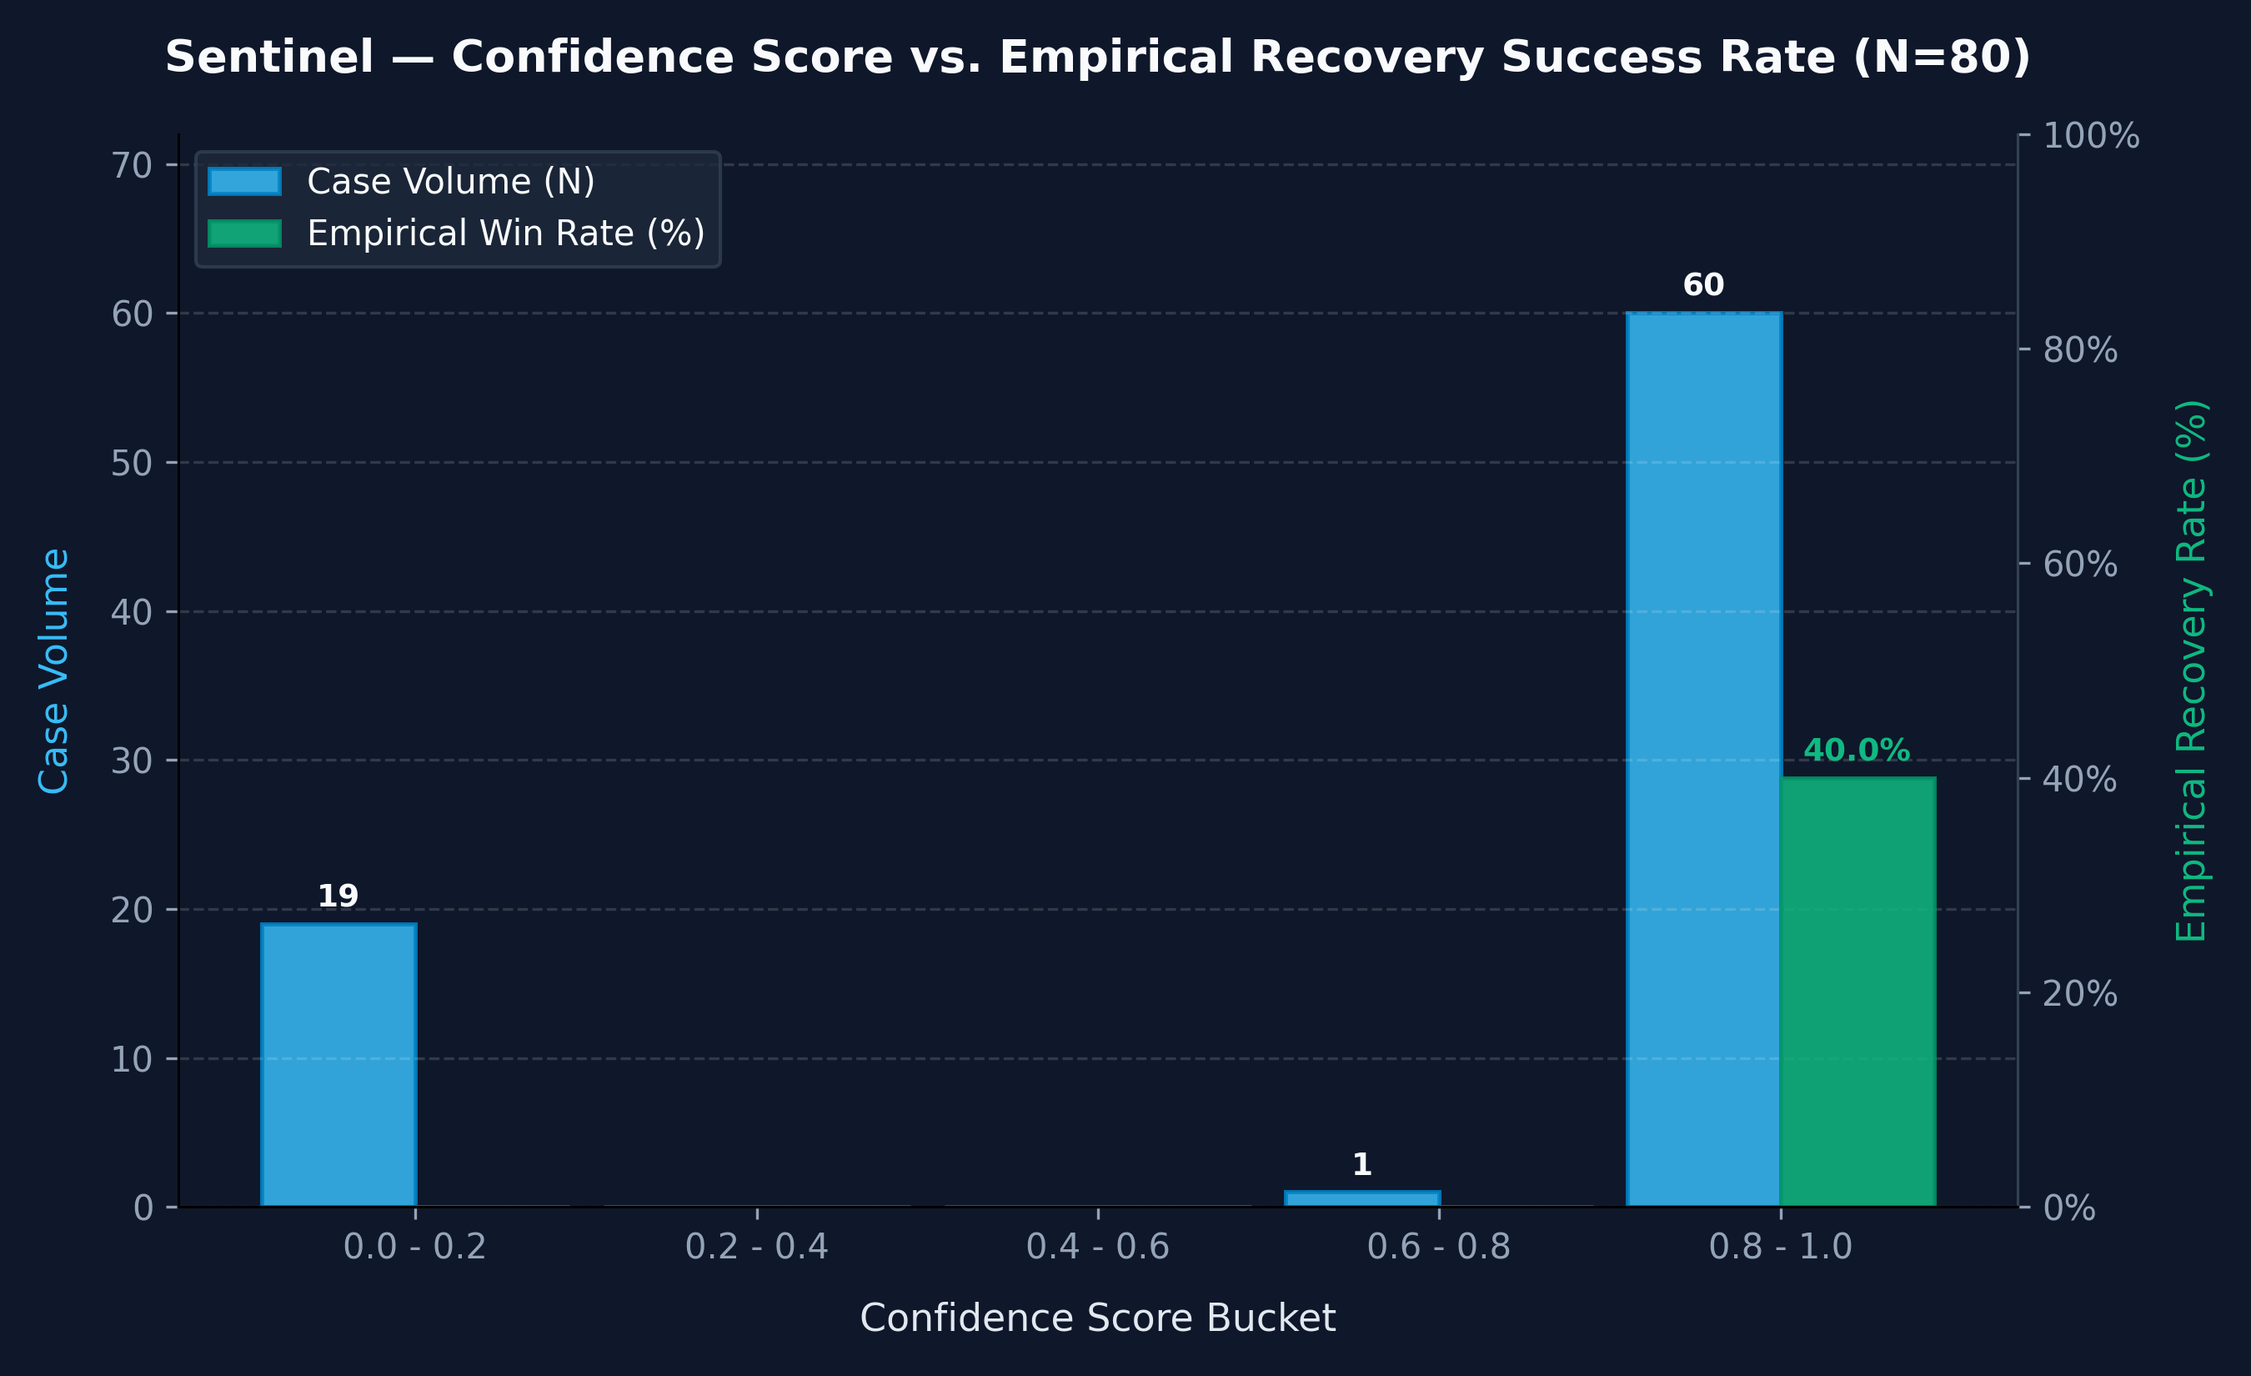
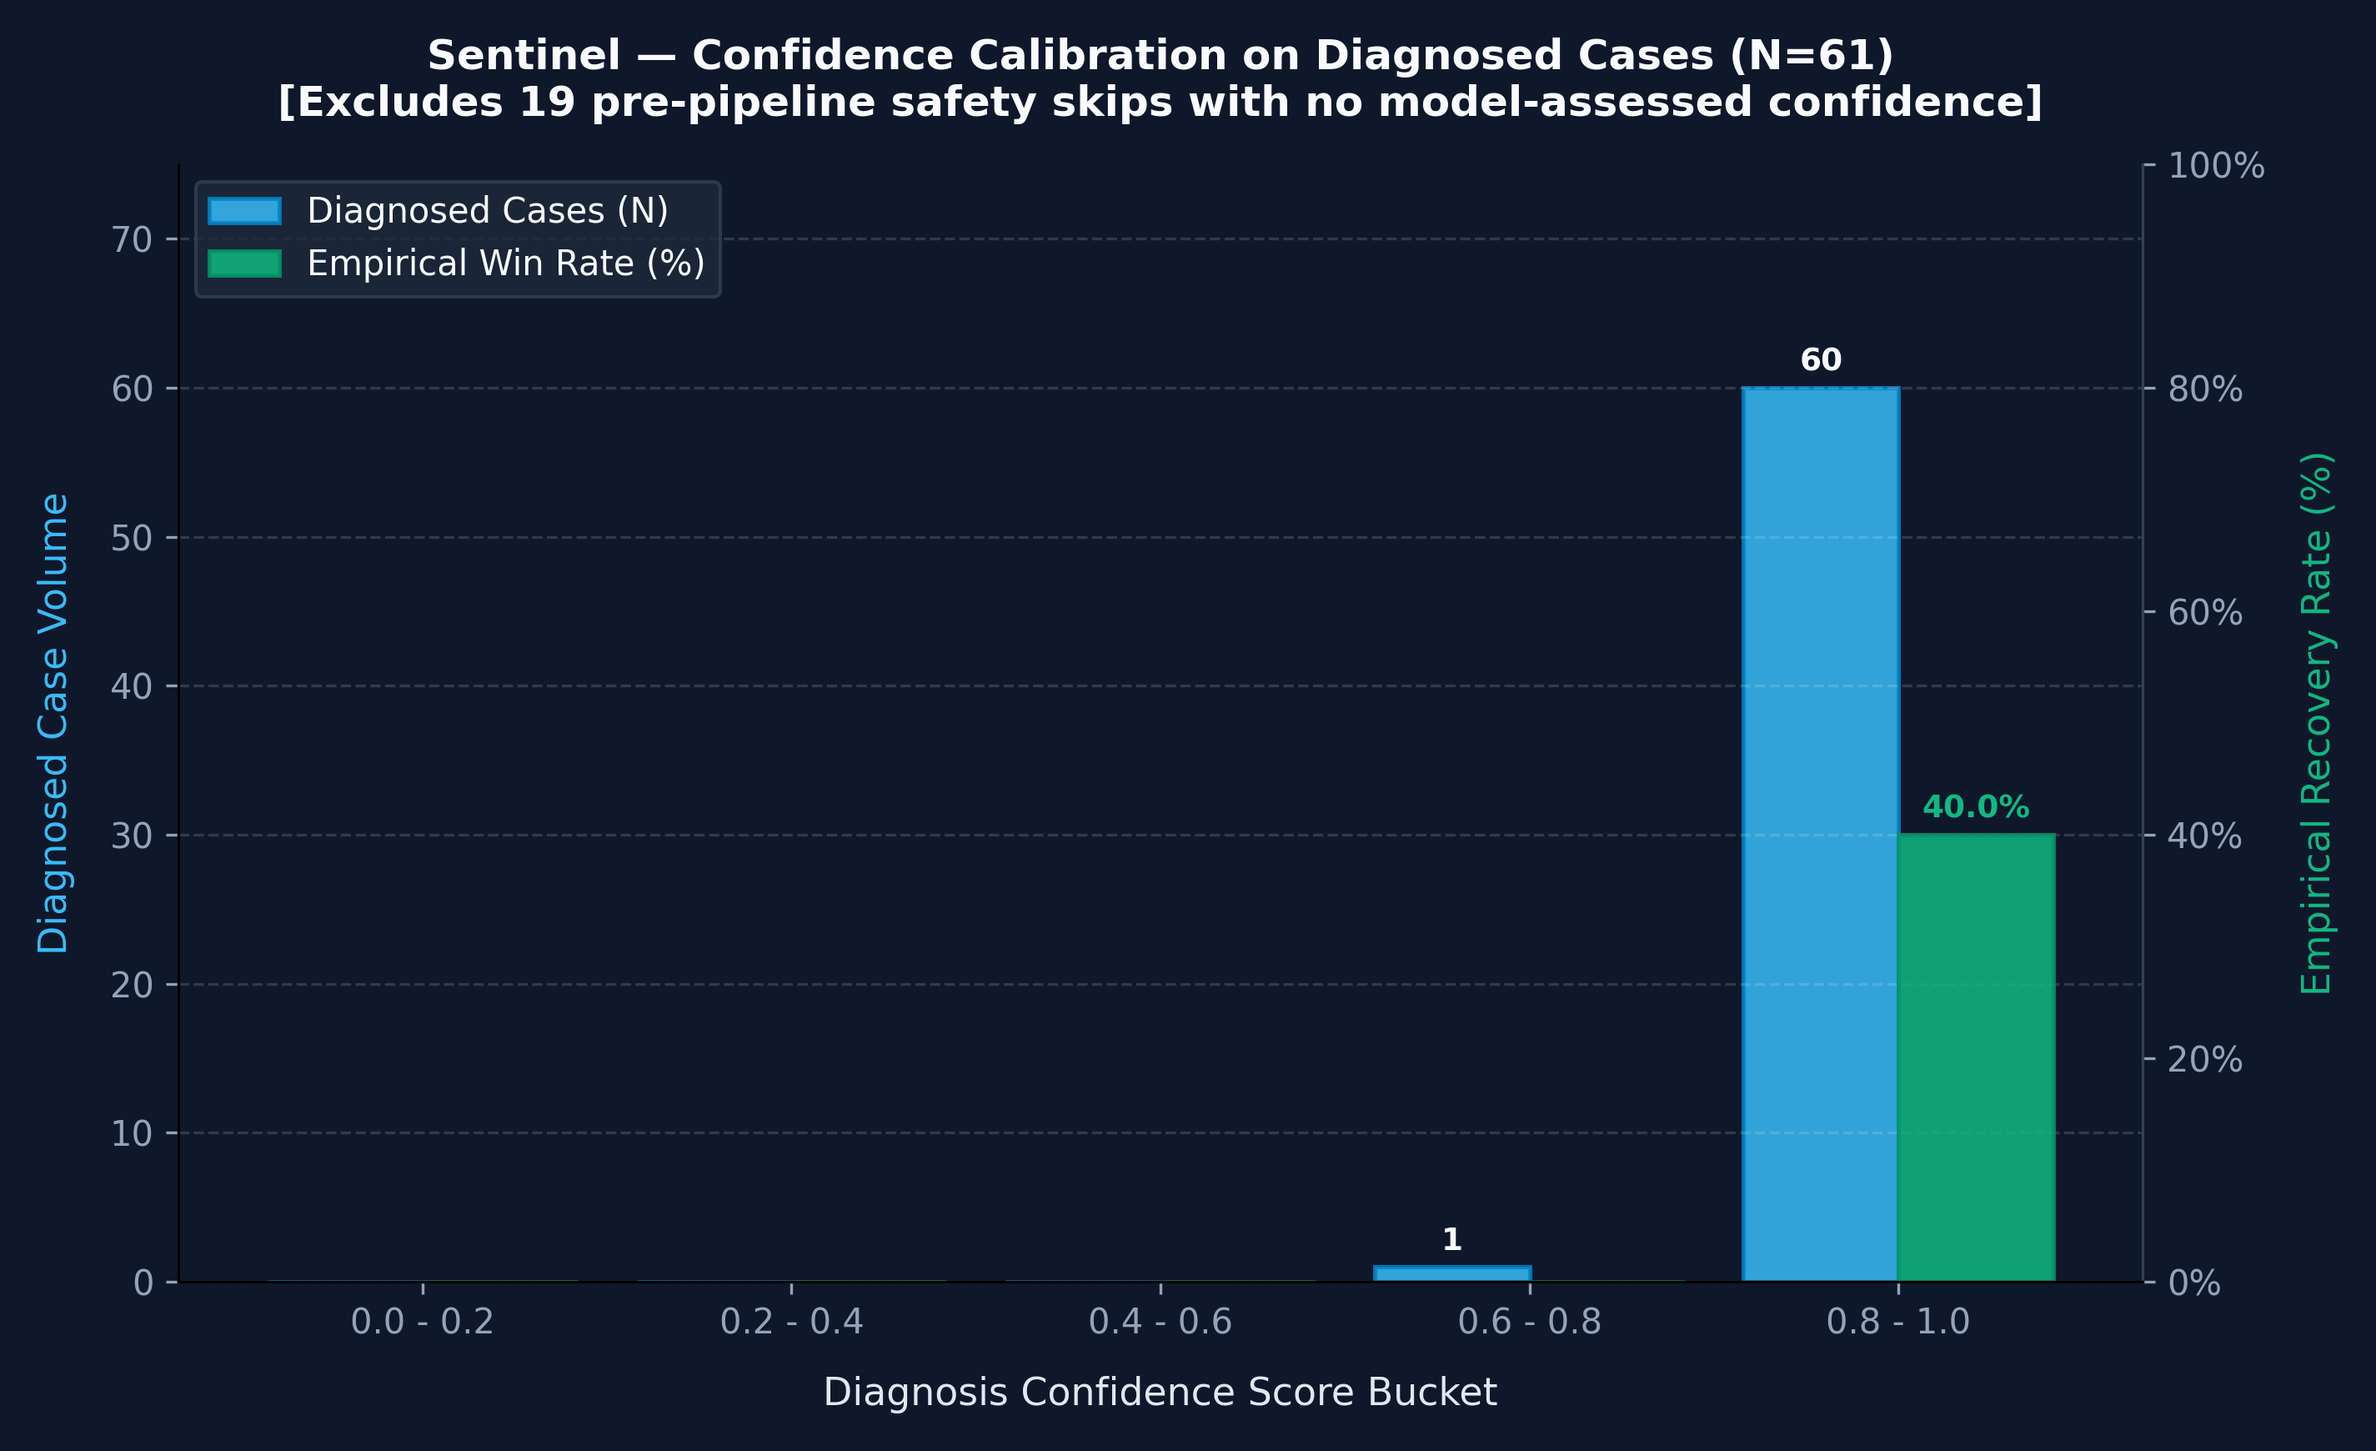
docs(calibration): isolate N=61 diagnosed cases and disclose sample size limitations

diff --git a/scripts/confidence_calibration.py b/scripts/confidence_calibration.py
@@ -2,10 +2,17 @@
 scripts/confidence_calibration.py — Confidence Calibration Check (Prompt 9)
 
 Evaluates the empirical calibration of Sentinel's LLM confidence scores across
-all 80 benchmark cases (Failed Payments + B2B Receivables).
+all 61 cases that actually reached the Diagnosis Agent (diagnose()).
 
-Buckets cases by confidence:
-- 0.0 – 0.2 (Pre-pipeline filtered / zero-confidence fallbacks)
+Exclusion Note: Exactly 19 cases in the 80-case benchmark are pre-pipeline safety
+skips (fraud flags, dispute holds, initial attempt-cap ceilings, active promises).
+These cases are filtered purely by statutory rules before the AI pipeline, meaning
+no LLM diagnosis is ever invoked (logged as diagnosis_confidence = "N/A"). They
+are excluded from calibration analysis to prevent artificial contamination of the
+0.0–0.2 bucket with non-model placeholder values.
+
+Buckets cases by model-assessed confidence:
+- 0.0 – 0.2
 - 0.2 – 0.4
 - 0.4 – 0.6 (Self-consistency split disagreements / cold starts)
 - 0.6 – 0.8 (Sub-threshold / majority-vote capped at 0.80)
@@ -55,14 +62,28 @@ def load_all_benchmark_cases(base_dir: Path) -> list[dict]:
     return rows
 
 
+def is_diagnosed_case(row: dict) -> bool:
+    """Check if the case actually ran through diagnose().
+
+    Pre-pipeline skipped cases (fraud, dispute, initial attempt caps, active promises)
+    were evaluated purely by deterministic rules before the AI pipeline, so they have
+    no model-assessed diagnosis confidence to calibrate against.
+    """
+    conf_str = row.get("diagnosis_confidence", "").strip()
+    cat_str = row.get("diagnosis_category", "").strip()
+    if not conf_str or conf_str in {"N/A", "None", ""}:
+        return False
+    if not cat_str or cat_str in {"N/A", "None", "", "N/A (Pre-Pipeline Skip)"}:
+        return False
+    return True
+
+
 def parse_confidence(val_str: str) -> float:
-    """Parse confidence string into float, treating N/A or empty as 0.0."""
-    if not val_str or val_str.strip() in {"N/A", "None", ""}:
-        return 0.0
+    """Parse confidence string into float, returning 0.0 on failure."""
     try:
         val = float(val_str)
         return max(0.0, min(1.0, val))
-    except ValueError:
+    except (ValueError, TypeError):
         return 0.0
 
 
@@ -71,8 +92,15 @@ def run_calibration_analysis() -> None:
     reports_dir = repo_root / "reports"
     reports_dir.mkdir(parents=True, exist_ok=True)
 
-    rows = load_all_benchmark_cases(reports_dir)
-    total_cases = len(rows)
+    all_rows = load_all_benchmark_cases(reports_dir)
+    total_benchmark_cases = len(all_rows)
+
+    # Filter to cases that actually ran through diagnose()
+    diagnosed_rows = [r for r in all_rows if is_diagnosed_case(r)]
+    skipped_rows = [r for r in all_rows if not is_diagnosed_case(r)]
+
+    diagnosed_count = len(diagnosed_rows)
+    skipped_count = len(skipped_rows)
 
     # Initialize bucket metrics
     calibration_data = {
@@ -87,13 +115,15 @@ def run_calibration_analysis() -> None:
             "failed": 0,
             "waiting": 0,
             "confidences": [],
+            "case_ids": [],
         }
         for b in BUCKETS
     }
 
-    for r in rows:
+    for r in diagnosed_rows:
         conf = parse_confidence(r.get("diagnosis_confidence", ""))
         status = r.get("status", "").upper()
+        cid = r.get("case_id", "")
 
         # Find matching bucket
         for label, lower, upper in BUCKETS:
@@ -101,6 +131,7 @@ def run_calibration_analysis() -> None:
                 b_dict = calibration_data[label]
                 b_dict["total_cases"] += 1
                 b_dict["confidences"].append(conf)
+                b_dict["case_ids"].append(cid)
                 if status == "RECOVERED":
                     b_dict["recovered"] += 1
                 elif status == "ESCALATED":
@@ -129,14 +160,19 @@ def run_calibration_analysis() -> None:
             "escalated_cases": d["escalated"],
             "stopped_cases": d["stopped"],
             "avg_confidence": round(avg_conf, 2),
+            "case_ids": ", ".join(d["case_ids"]) if cnt <= 3 else f"{len(d['case_ids'])} cases",
         })
 
     # Print Table to stdout
-    print("\n" + "=" * 76)
-    print("SENTINEL CONFIDENCE CALIBRATION ANALYSIS (80 Benchmark Cases)")
-    print("=" * 76)
+    print("\n" + "=" * 78)
+    print(f"SENTINEL CONFIDENCE CALIBRATION ANALYSIS (N={diagnosed_count} Diagnosed Cases)")
+    print("=" * 78)
+    print(f"Total benchmark cases:          {total_benchmark_cases}")
+    print(f"Pre-pipeline skips (excluded):  {skipped_count} (no diagnosis invoked; placeholder 0.0 removed)")
+    print(f"Diagnosed cases evaluated:      {diagnosed_count}")
+    print("-" * 78)
     print(f"{'Confidence Bucket':<18} | {'Cases':<6} | {'Recovered':<10} | {'Win Rate (%)':<13} | {'Avg Conf':<8} | {'Escalated / Stopped'}")
-    print("-" * 76)
+    print("-" * 78)
     for res in results:
         print(
             f"{res['confidence_bucket']:<18} | "
@@ -146,8 +182,10 @@ def run_calibration_analysis() -> None:
             f"{res['avg_confidence']:>8.2f} | "
             f"{res['escalated_cases']} esc / {res['stopped_cases']} stop"
         )
-    print("=" * 76)
-    print(f"Total benchmark cases evaluated: {total_cases} (Recovered: {sum(r['recovered_cases'] for r in results)})\n")
+    print("=" * 78)
+    total_rec = sum(r["recovered_cases"] for r in results)
+    overall_diag_rate = (total_rec / diagnosed_count * 100.0) if diagnosed_count > 0 else 0.0
+    print(f"Overall recovery rate among diagnosed cases: {overall_diag_rate:.1f}% ({total_rec}/{diagnosed_count})\n")
 
     # Export CSV
     csv_path = reports_dir / "confidence_calibration.csv"
@@ -160,6 +198,7 @@ def run_calibration_analysis() -> None:
             "avg_confidence",
             "escalated_cases",
             "stopped_cases",
+            "case_ids",
         ]
         writer = csv.DictWriter(f, fieldnames=fieldnames)
         writer.writeheader()
@@ -169,15 +208,15 @@ def run_calibration_analysis() -> None:
     # Generate Chart if matplotlib is available
     if HAS_MATPLOTLIB:
         chart_path = reports_dir / "confidence_calibration.png"
-        _render_chart(results, chart_path)
+        _render_chart(results, chart_path, diagnosed_count, skipped_count)
         print(f"--> Calibration plot exported to: {chart_path}")
     else:
         print("--> Matplotlib not installed; skipping chart generation.")
 
 
-def _render_chart(results: list[dict], output_path: Path) -> None:
-    """Render a clean calibration bar chart."""
-    fig, ax1 = plt.subplots(figsize=(9, 5.5), dpi=300)
+def _render_chart(results: list[dict], output_path: Path, diagnosed_count: int, skipped_count: int) -> None:
+    """Render a clean calibration bar chart for diagnosed cases."""
+    fig, ax1 = plt.subplots(figsize=(9.5, 5.8), dpi=300)
     fig.patch.set_facecolor("#0F172A")
     ax1.set_facecolor("#0F172A")
 
@@ -186,7 +225,7 @@ def _render_chart(results: list[dict], output_path: Path) -> None:
     win_rates = [r["win_rate_pct"] for r in results]
 
     x = range(len(labels))
-    width = 0.45
+    width = 0.42
 
     # Bar chart for case counts
     bars = ax1.bar(
@@ -195,7 +234,7 @@ def _render_chart(results: list[dict], output_path: Path) -> None:
         width=width,
         color="#38BDF8",
         alpha=0.85,
-        label="Case Volume (N)",
+        label="Diagnosed Cases (N)",
         edgecolor="#0284C7",
         linewidth=1.2,
     )
@@ -245,14 +284,14 @@ def _render_chart(results: list[dict], output_path: Path) -> None:
             )
 
     # Styling
-    ax1.set_xlabel("Confidence Score Bucket", fontsize=11, color="#E2E8F0", labelpad=10)
-    ax1.set_ylabel("Case Volume", fontsize=11, color="#38BDF8", labelpad=10)
+    ax1.set_xlabel("Diagnosis Confidence Score Bucket", fontsize=11, color="#E2E8F0", labelpad=10)
+    ax1.set_ylabel("Diagnosed Case Volume", fontsize=11, color="#38BDF8", labelpad=10)
     ax2.set_ylabel("Empirical Recovery Rate (%)", fontsize=11, color="#10B981", labelpad=10)
     ax1.set_xticks(list(x))
     ax1.set_xticklabels(labels, fontsize=10, color="#CBD5E1")
     ax1.tick_params(colors="#94A3B8")
     ax2.tick_params(colors="#94A3B8")
-    ax1.set_ylim(0, max(case_counts) * 1.2)
+    ax1.set_ylim(0, max(case_counts) * 1.25)
     ax2.set_ylim(0, 100)
     ax2.yaxis.set_major_formatter(mtick.PercentFormatter())
 
@@ -265,11 +304,12 @@ def _render_chart(results: list[dict], output_path: Path) -> None:
 
     # Titles & Legend
     plt.title(
-        "Sentinel — Confidence Score vs. Empirical Recovery Success Rate (N=80)",
-        fontsize=13,
+        f"Sentinel — Confidence Calibration on Diagnosed Cases (N={diagnosed_count})\n"
+        f"[Excludes {skipped_count} pre-pipeline safety skips with no model-assessed confidence]",
+        fontsize=12,
         color="#F8FAFC",
         fontweight="bold",
-        pad=18,
+        pad=14,
     )
     lines1, labels1 = ax1.get_legend_handles_labels()
     lines2, labels2 = ax2.get_legend_handles_labels()

diff --git a/README.md b/README.md
@@ -196,7 +196,8 @@ python run_phase2.py    # Phase 2 Failed Payments benchmark vs Baseline
 python run_phase3.py    # Phase 3 B2B Receivables benchmark vs Baseline
 
 # 3. Run Confidence Calibration Audit
-python calibration_check.py
+python scripts/confidence_calibration.py  # Prompt 9 calibration evaluation & plot (N=61 diagnosed)
+python calibration_check.py               # Phase 4 fallback ladder audit
 
 # 4. Inspect Case Breakdown Reports
 type reports\payment_batch_breakdown.csv
@@ -353,19 +354,38 @@ In an autonomous financial recovery engine, utilizing generative AI for determin
 
 ## Confidence Calibration Check
 
-To verify whether Sentinel's diagnostic confidence scores correlate with real-world outcomes, all 80 benchmark cases were evaluated across 5 standard confidence buckets using [`scripts/confidence_calibration.py`](scripts/confidence_calibration.py):
+To evaluate the empirical calibration of Sentinel's diagnostic confidence scores, the benchmark was analyzed across standard confidence buckets using [`scripts/confidence_calibration.py`](scripts/confidence_calibration.py).
 
-| Confidence Bucket | Total Cases | Recovered Cases | Empirical Win Rate (%) | Avg Confidence | Primary Outcome Breakdown |
+### Scope & Exclusion of Pre-Pipeline Hard Stops
+
+A critical methodological requirement for calibration analysis is ensuring every evaluated case actually received a model-assessed confidence score:
+- **Total benchmark cases**: 80 (30 Failed Payments, 50 B2B Receivables)
+- **Pre-pipeline safety skips (excluded, $N=19$)**: 19 cases (7 payment, 12 B2B) are halted by deterministic statutory rules (fraud flags, active disputes, initial attempt-cap exhaustion, active promises-to-pay) *before* reaching the AI pipeline. Because `diagnose()` is never invoked, these cases have no model confidence to calibrate against (logged as `diagnosis_confidence = "N/A"`). Excluding them prevents artificial contamination of the low-confidence bucket with arbitrary `0.0` placeholder values.
+- **Genuine diagnosed cases ($N=61$)**: Strictly evaluates the 61 cases (23 payment, 38 B2B) that actively ran through the Diagnosis Agent (`diagnose()`) with multi-perspective self-consistency scoring.
+
+### Empirical Calibration Breakdown ($N=61$)
+
+| Confidence Bucket | Diagnosed Cases | Recovered Cases | Empirical Win Rate (%) | Avg Confidence | Primary Outcome Breakdown |
 | :--- | :---: | :---: | :---: | :---: | :--- |
-| **0.0 - 0.2** | 19 | 0 | **0.0%** (0/19) | 0.00 | 7 escalated, 6 stopped, 6 unrecovered (Pre-pipeline filtered) |
-| **0.2 - 0.4** | 0 | 0 | **0.0%** (0/0) | — | Zero cases assigned to this band |
-| **0.4 - 0.6** | 0 | 0 | **0.0%** (0/0) | — | Zero cases assigned to this band |
+| **0.0 - 0.2** | 0 | 0 | **0.0%** (0/0) | — | Zero diagnosed cases assigned to this band |
+| **0.2 - 0.4** | 0 | 0 | **0.0%** (0/0) | — | Zero diagnosed cases assigned to this band |
+| **0.4 - 0.6** | 0 | 0 | **0.0%** (0/0) | — | Zero diagnosed cases assigned to this band |
 | **0.6 - 0.8** | 1 | 0 | **0.0%** (0/1) | 0.79 | 1 escalated (`B2B-cde22f1c-56b` capped at 0.79 via 2/3 majority vote) |
 | **0.8 - 1.0** | 60 | 24 | **40.0%** (24/60) | 0.88 | 24 recovered, 24 escalated, 12 failed (Autonomous execution tier) |
+| **Total / Overall** | **61** | **24** | **39.3%** (24/61) | **0.88** | 24 recovered, 25 escalated, 12 failed |
 
 ![Confidence Calibration Curve](reports/confidence_calibration.png)
 
-> **Honest Calibration Assessment**: In this dataset, confidence functions primarily as an **all-or-nothing gating filter rather than a continuous linear predictor of payment success**: sub-0.80 cases have a 0.0% recovery rate because the safety architecture routes them directly to escalations or hard stops, while cases in the autonomous tier (0.80–1.0) achieve a 40.0% empirical recovery rate because real recovery depends on debtor liquidity and banking rails rather than model certainty.
+> ### Honest Empirical Calibration Assessment
+> 
+> When pre-pipeline statutory holds are properly excluded, the data reveals an important and defensible finding: **the sample size in the lower confidence buckets is too small ($N=1$ in 0.6–0.8, $N=0$ in 0.0–0.6) to claim that an empirical continuous calibration curve exists across five buckets**. 
+> 
+> Rather than functioning as a fine-grained, continuous probability of debt recovery, model confidence in Sentinel operates as an **architectural threshold backstop (a binary safety gate)**:
+> 1. **Heavy Model Clustering ($0.80–0.95$)**: When presented with eligible, non-fraudulent cases, the Diagnosis Agent reaches strong consensus across its self-consistency passes, concentrating 98.4% (60/61) of all diagnosed cases into the 0.8–1.0 band.
+> 2. **Threshold Floor Enforcement**: The one case in the 0.6–0.8 bucket (`B2B-cde22f1c-56b`, confidence 0.79) resulted from a 2/3 majority vote disagreement where confidence was decayed below the 0.85 safety floor; as expected, the system safely stepped it down to human escalation without attempting automated recovery.
+> 3. **Recovery Depends on External Reality**: Within the high-confidence tier (0.8–1.0), the empirical recovery rate is 40.0% (24/60). Diagnostic certainty indicates high confidence in the *root-cause classification* and *chosen intervention strategy*, but debtor liquidity, banking rails, and debtor willingness ultimately determine whether funds are recovered.
+> 
+> Acknowledging this sample limitation plainly is more transparent and mathematically sound than asserting a multi-bucket calibration curve constructed from non-diagnosed placeholder data.
 
 ---
 
